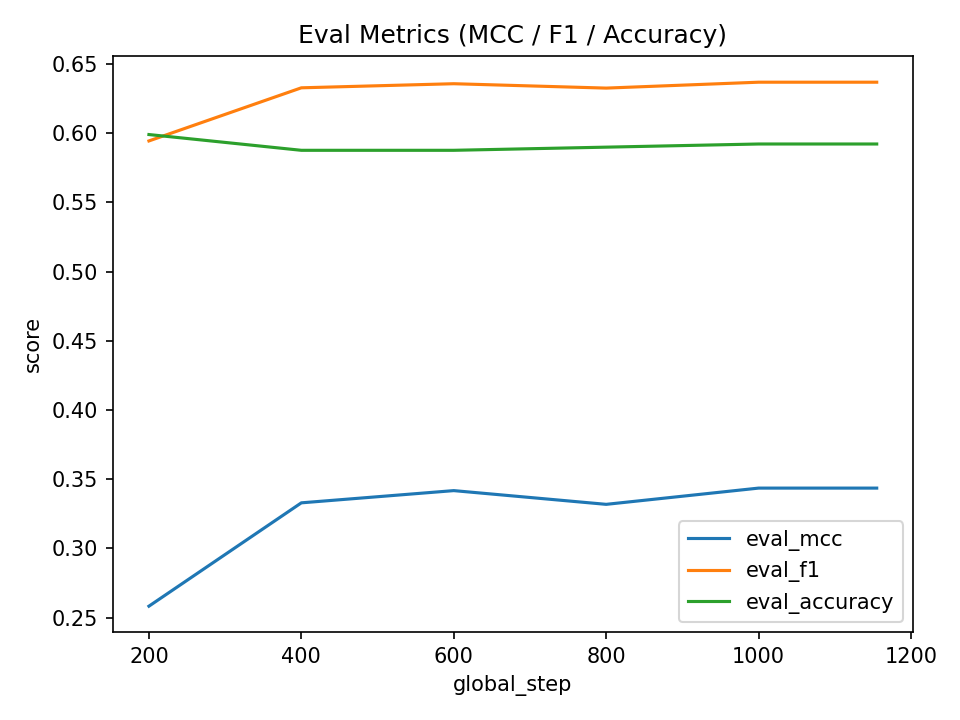
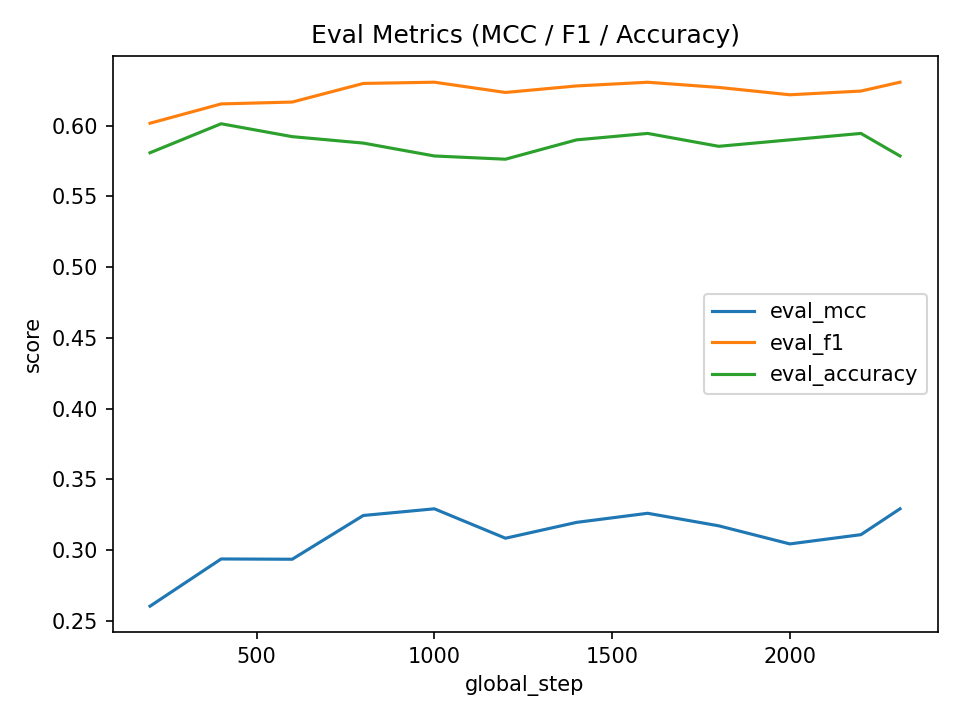
best

diff --git a/experiment_2/fine_tuning/fine_tuning.py b/experiment_2/fine_tuning/fine_tuning.py
@@ -35,8 +35,7 @@ CSV_PATH = "../data/learning_data.csv"   # 単一CSV（text,label 列）
 OUTPUT_DIR = "./result"
 
 SEED = 128
-#BATCH_SIZE = 16 (best)
-BATCH_SIZE=8
+BATCH_SIZE = 4 #best
 MAX_LENGTH = 512
 LR = 1e-5
 NUM_EPOCHS = 15
@@ -377,8 +376,8 @@ def main():
         learning_rate=LR,
         lr_scheduler_type="cosine",
         warmup_ratio=0.08,
-        #weight_decay=0.001,(M)
-        weight_decay=0.003,
+        #weight_decay=0.003,(best)
+        weight_decay=0.005,
         logging_steps=LOGGING_STEPS,
         eval_strategy="steps",      
         eval_steps=EVAL_STEPS,
